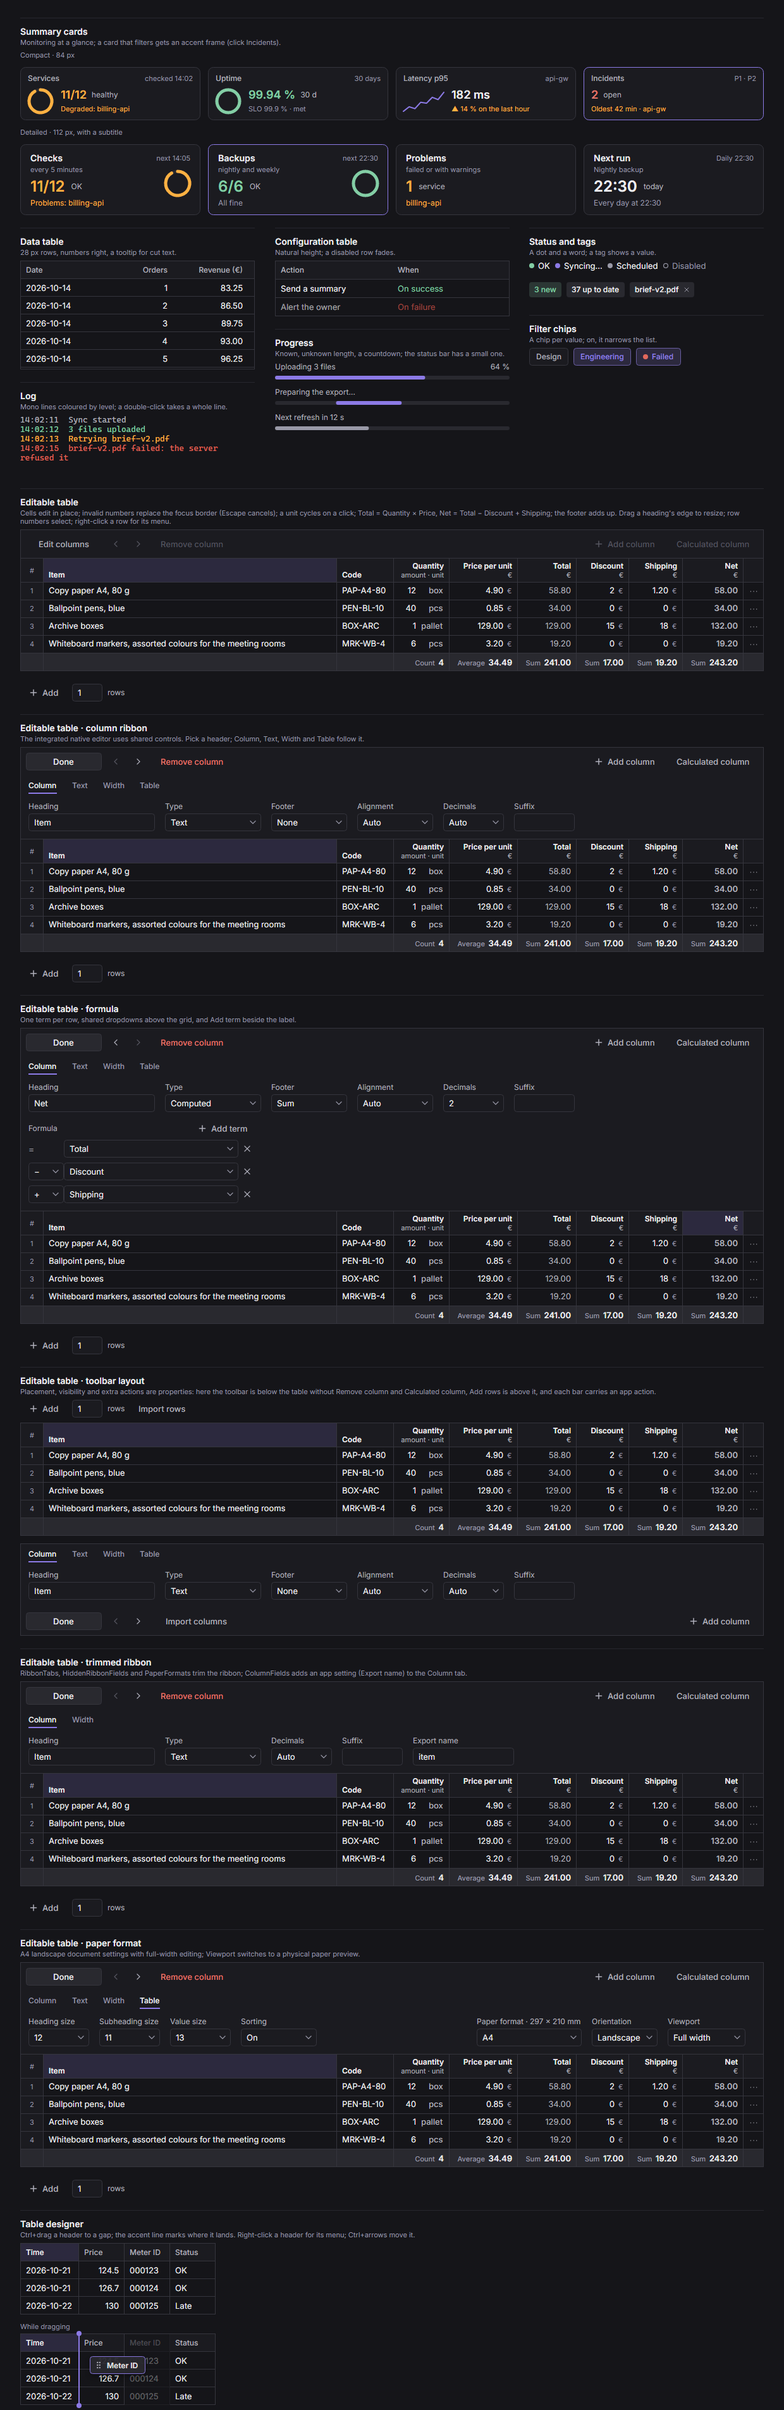
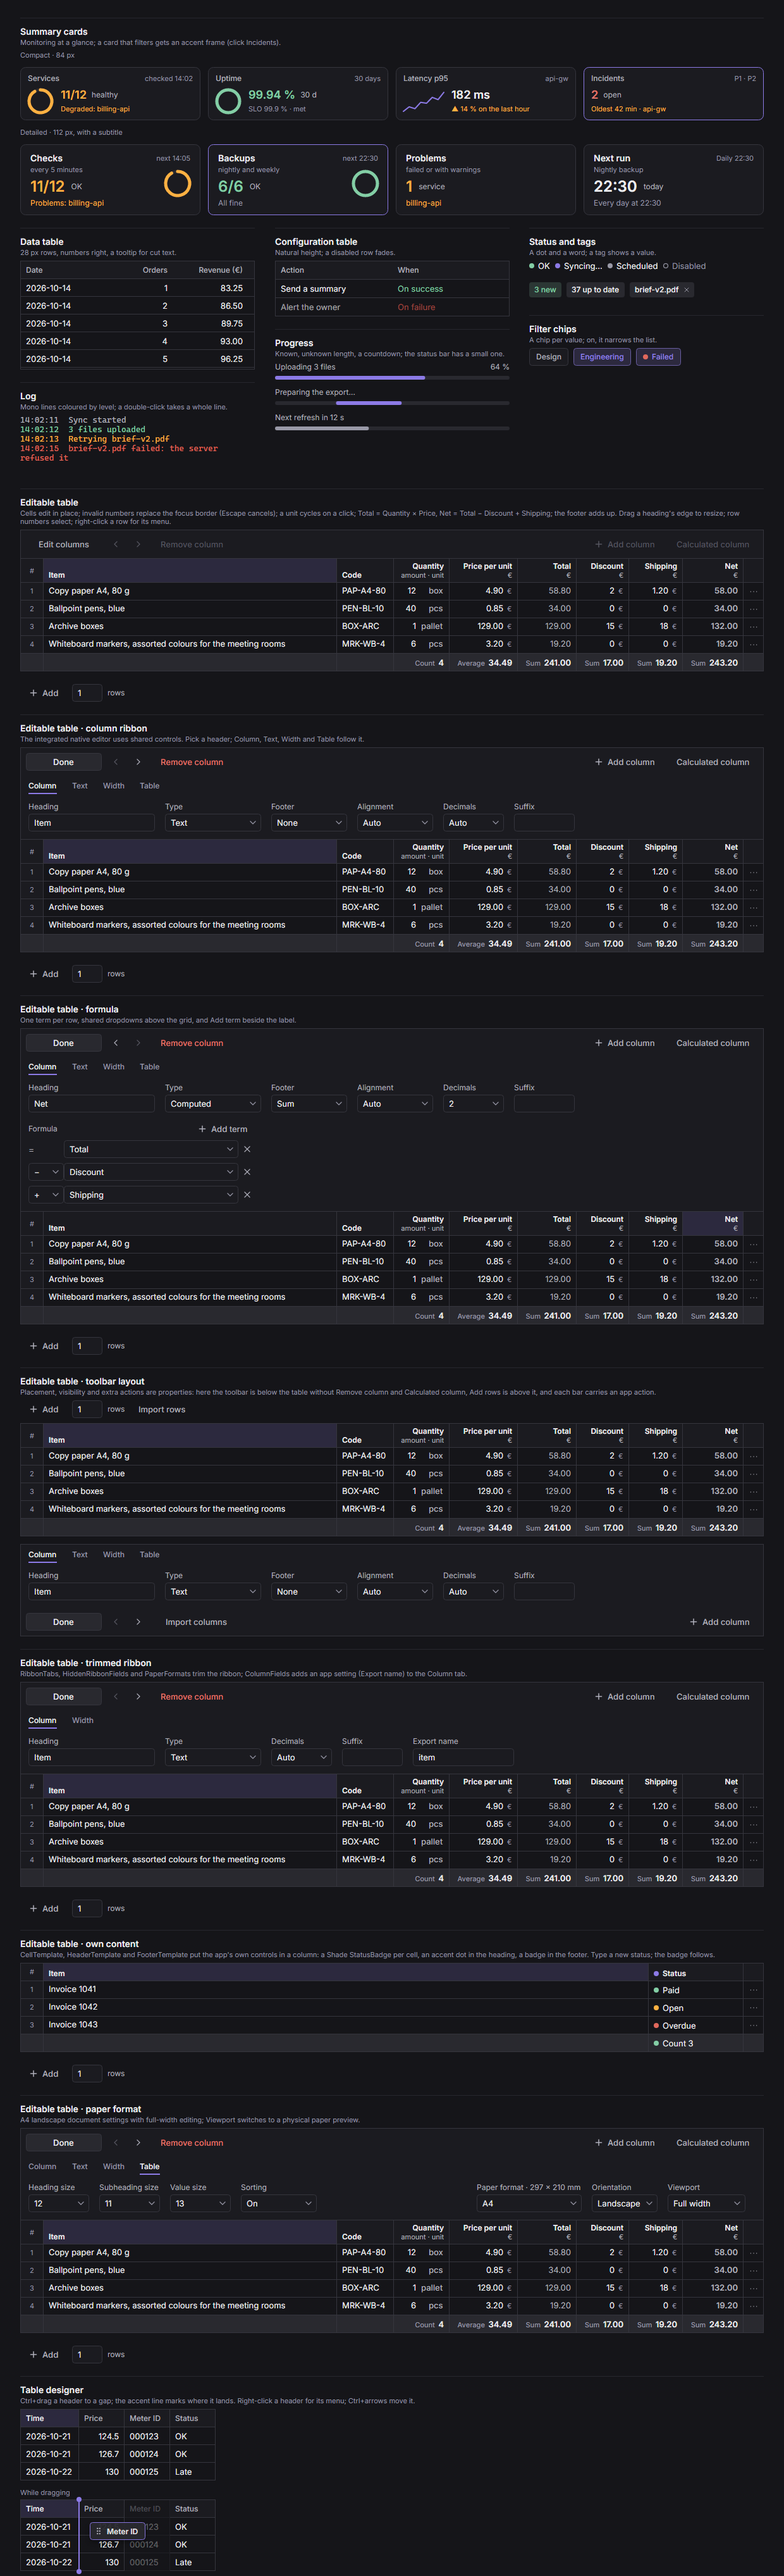
Regenerate the page and previews for table templates

diff --git a/docs/index.html b/docs/index.html
@@ -505,6 +505,9 @@
     <div class="block wide"><h4>Editable table</h4><p class="help">Type in any cell; Enter and Shift+Enter go down and up. Invalid numbers show an error and keep the last accepted value; correct the draft or press Escape. Click a unit to change it. Columns fit their content, fill the room left (Item) or keep a fixed width, each with a min and max width; drag a heading's wider edge target to resize (a fill column's minimum; double-click fits). Click a heading to sort: up, down, back to the original order. Click row numbers to select (Ctrl adds, Shift takes a range); right-click or ⋯ for Duplicate, Insert and Delete. Click a footer to choose what it shows. Choose <b>Edit columns</b> in the table toolbar to open the inline ribbon; <b>Done</b> returns to data entry. In edit mode, click a heading to select it; hold Ctrl and drag a heading to a gap (release Ctrl or Esc to cancel), right-click it to insert or remove, Ctrl+←/→ to move.</p>
       <div class="s-grid" id="order-grid"><script type="application/json">{"columns": [{"key": "item", "title": "Item", "type": "text", "grow": true}, {"key": "sku", "title": "Code", "type": "text"}, {"key": "qty", "title": "Quantity", "subtitle": "amount · unit", "type": "unit", "units": ["pcs", "box", "pallet"], "footer": "count"}, {"key": "price", "title": "Price per unit", "subtitle": "€", "type": "number", "decimals": 2, "suffix": "€", "footer": "average"}, {"key": "total", "title": "Total", "subtitle": "€", "type": "computed", "decimals": 2, "footer": "sum", "terms": [{"k": "qty"}, {"op": "×", "k": "price"}]}, {"key": "discount", "title": "Discount", "subtitle": "€", "type": "number", "decimals": 2, "suffix": "€", "footer": "sum"}, {"key": "shipping", "title": "Shipping", "subtitle": "€", "type": "number", "decimals": 2, "suffix": "€", "footer": "sum"}, {"key": "net", "title": "Net", "subtitle": "€", "type": "computed", "decimals": 2, "bold": true, "footer": "sum", "terms": [{"k": "total"}, {"op": "−", "k": "discount"}, {"op": "+", "k": "shipping"}]}], "rows": [{"item": "Copy paper A4, 80 g", "sku": "PAP-A4-80", "qty": "12", "qty:unit": "box", "price": "4.90", "discount": "2", "shipping": "1.20"}, {"item": "Ballpoint pens, blue", "sku": "PEN-BL-10", "qty": "40", "qty:unit": "pcs", "price": "0.85", "discount": "0", "shipping": "0"}, {"item": "Sticky notes 76 × 76 mm", "sku": "NOTE-76", "qty": "2", "qty:unit": "box", "price": "6.40", "discount": "0", "shipping": "0"}, {"item": "Archive boxes", "sku": "BOX-ARC", "qty": "1", "qty:unit": "pallet", "price": "129.00", "discount": "15", "shipping": "18"}, {"item": "Whiteboard markers, assorted colours for the meeting rooms", "sku": "MRK-WB-4", "qty": "6", "qty:unit": "pcs", "price": "3.20", "discount": "0", "shipping": "0"}, {"item": "Desk organiser", "sku": "ORG-DSK", "qty": "3", "qty:unit": "pcs", "price": "12.50", "discount": "1.5", "shipping": "0.80"}]}</script></div>
     </div>
+    <div class="block wide"><h4>Editable table · own content</h4><p class="help"><code>cellTemplate</code>, <code>headerTemplate</code> and <code>footerTemplate</code> are your own markup for a column; <code>{name}</code> is replaced by that value, escaped. Here each Status cell is a badge built from the row's <code>status</code> and <code>kind</code>; type a new status and the badge follows.</p>
+      <div class="s-grid" id="content-grid"><script type="application/json">{"columns": [{"key": "item", "title": "Item", "type": "text", "grow": true}, {"key": "status", "title": "Status", "type": "general", "width": 150, "footer": "count", "cellTemplate": "<span class=\"s-status\"><i class=\"s-dot\" style=\"background:var(--{kind})\"></i>{status}</span>", "headerTemplate": "<span class=\"s-status h\"><i class=\"s-dot\" style=\"background:var(--accent)\"></i>{title}</span>", "footerTemplate": "<span class=\"s-status\"><i class=\"s-dot\" style=\"background:var(--success)\"></i>{function} {footer}</span>"}], "rows": [{"item": "Invoice 1041", "status": "Paid", "kind": "success"}, {"item": "Invoice 1042", "status": "Open", "kind": "warning"}, {"item": "Invoice 1043", "status": "Overdue", "kind": "danger"}]}</script></div>
+    </div>
     <div class="block wide"><h4>Editable table · trimmed ribbon</h4><p class="help"><code>ribbonTabs</code> lists the tabs that show, <code>hiddenFields</code> the field labels to hide, <code>paperFormats</code> the paper presets on offer, and <code>columnFields</code> (<code>{ label, key }</code>) adds a text setting on the column to the Column tab. Here only Column and Width show, Footer and Alignment are hidden, and Export name is the app's own.</p>
       <div class="s-grid" id="ribbon-grid"><script type="application/json">{"columns": [{"key": "item", "title": "Item", "type": "text", "grow": true}, {"key": "qty", "title": "Quantity", "type": "number"}], "rows": [{"item": "Copy paper A4", "qty": "12"}], "options": {"design": true, "ribbonTabs": ["Column", "Width"], "hiddenFields": ["Footer", "Alignment"], "paperFormats": ["A4", "A5"], "columnFields": [{"label": "Export name", "key": "export"}]}}</script></div>
     </div>
